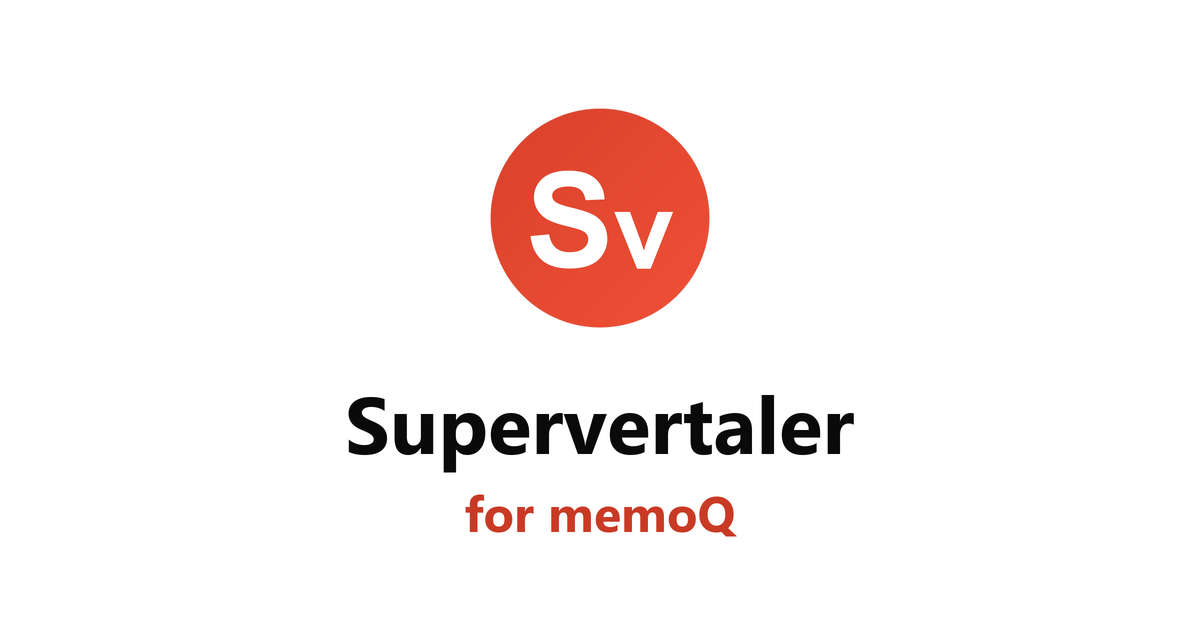
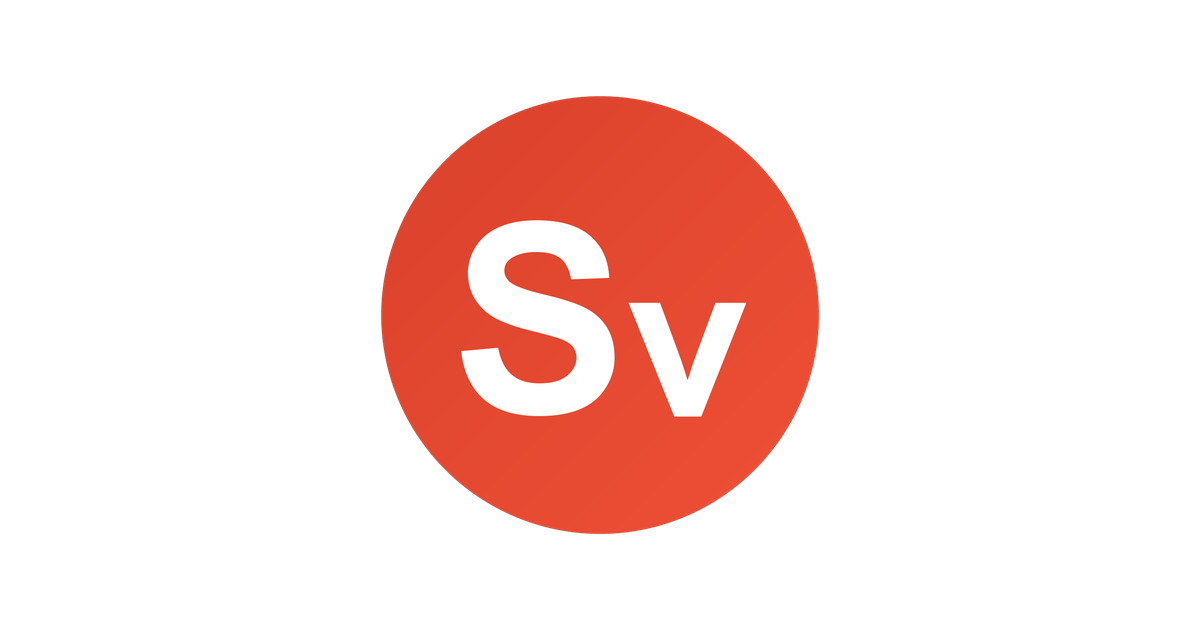
Link previews: the mark alone, so WhatsApp's small preview is sharp
WhatsApp's small link preview is the middle square of the picture,
shrunk to about 115 pixels and saved as a rough JPEG. With the name under
the mark, the mark came out about 45 pixels wide there, and soft. The
three cards are now the mark alone, 437 pixels across, filling that
square: black for the brand, blue for Trados, vermillion for memoQ. The
apps print the page title beside the picture, so the name is still there.

Every page now asks for ?v=2 of its card, so the apps fetch the new
picture rather than reuse the one they have kept.

Changed region(s): [[0.2775, 0.1508, 0.7092, 0.8444]]

diff --git a/sidekick/index.html b/sidekick/index.html
@@ -11,7 +11,7 @@
 <meta property="og:title" content="Supervertaler Sidekick – the free toolbox for translators">
 <meta property="og:description" content="A free Windows toolbox for translators: select text in any program and look it up, translate it with several engines at once, run an AI prompt over it, or paste a snippet in its place. Clipboard history, text expansion and terminology searches included.">
 <meta property="og:url" content="https://supervertaler.com/sidekick/">
-<meta property="og:image" content="https://supervertaler.com/og-image.png?v=1">
+<meta property="og:image" content="https://supervertaler.com/og-image.png?v=2">
 <meta property="og:image:width" content="1200">
 <meta property="og:image:height" content="630">
 <meta property="og:image:alt" content="Supervertaler">

diff --git a/trados/index.html b/trados/index.html
@@ -11,7 +11,7 @@
 <meta property="og:title" content="Supervertaler for Trados – AI translation inside Trados Studio">
 <meta property="og:description" content="A Trados Studio plugin: AI translation, TermLens inline terminology, SuperSearch cross-file search and replace, SuperVoice voice control, and SuperMemory – the client decisions you cannot look up, in every prompt.">
 <meta property="og:url" content="https://supervertaler.com/trados/">
-<meta property="og:image" content="https://supervertaler.com/og-image-trados.png?v=1">
+<meta property="og:image" content="https://supervertaler.com/og-image-trados.png?v=2">
 <meta property="og:image:width" content="1200">
 <meta property="og:image:height" content="630">
 <meta property="og:image:alt" content="Supervertaler for Trados">

diff --git a/memoq/index.html b/memoq/index.html
@@ -11,7 +11,7 @@
 <meta property="og:title" content="Supervertaler for memoQ – AI translation inside memoQ">
 <meta property="og:description" content="A memoQ plugin: AI translation that learns from the segments you confirm, your glossary in memoQ's terminology pane and in the prompt, and context no CAT tool normally shows the AI – list numbering and what the figures show.">
 <meta property="og:url" content="https://supervertaler.com/memoq/">
-<meta property="og:image" content="https://supervertaler.com/og-image-memoq.png?v=1">
+<meta property="og:image" content="https://supervertaler.com/og-image-memoq.png?v=2">
 <meta property="og:image:width" content="1200">
 <meta property="og:image:height" content="630">
 <meta property="og:image:alt" content="Supervertaler for memoQ">

diff --git a/index.html b/index.html
@@ -11,7 +11,7 @@
 <meta property="og:title" content="Supervertaler – AI translation inside Trados Studio and memoQ">
 <meta property="og:description" content="AI translation that knows more than the sentence in front of it – your confirmed segments, your terminology, your notes on the client. One licence covers the Trados Studio plugin and the memoQ plugin.">
 <meta property="og:url" content="https://supervertaler.com/">
-<meta property="og:image" content="https://supervertaler.com/og-image.png?v=1">
+<meta property="og:image" content="https://supervertaler.com/og-image.png?v=2">
 <meta property="og:image:width" content="1200">
 <meta property="og:image:height" content="630">
 <meta property="og:image:alt" content="Supervertaler">

diff --git a/articles/local-ai-patent-test/index.html b/articles/local-ai-patent-test/index.html
@@ -11,7 +11,7 @@
 <meta property="og:title" content="Can a local AI model translate a patent?">
 <meta property="og:description" content="A published Dutch patent translated with Gemma 4 31B, a model you can run on your own computer, and with Claude Opus 5.5, compared paragraph by paragraph with the official English publication.">
 <meta property="og:url" content="https://supervertaler.com/articles/local-ai-patent-test/">
-<meta property="og:image" content="https://supervertaler.com/og-image.png?v=1">
+<meta property="og:image" content="https://supervertaler.com/og-image.png?v=2">
 <meta property="og:image:width" content="1200">
 <meta property="og:image:height" content="630">
 <meta property="og:image:alt" content="Supervertaler">

diff --git a/pricing/index.html b/pricing/index.html
@@ -11,7 +11,7 @@
 <meta property="og:title" content="Pricing – one Supervertaler licence for Trados and memoQ">
 <meta property="og:description" content="One Supervertaler licence covers Supervertaler for Trados and Supervertaler for memoQ: €20 a month or €200 a year, on up to two computers, with a 14-day free trial and no credit card.">
 <meta property="og:url" content="https://supervertaler.com/pricing/">
-<meta property="og:image" content="https://supervertaler.com/og-image.png?v=1">
+<meta property="og:image" content="https://supervertaler.com/og-image.png?v=2">
 <meta property="og:image:width" content="1200">
 <meta property="og:image:height" content="630">
 <meta property="og:image:alt" content="Supervertaler">

diff --git a/terms/index.html b/terms/index.html
@@ -11,7 +11,7 @@
 <meta property="og:title" content="Terms of Use – Supervertaler">
 <meta property="og:description" content="The terms for using Supervertaler for Trados, Supervertaler for memoQ, Supervertaler Workbench and Supervertaler Sidekick: the trial, your licence, subscriptions, AI features and what you are responsible for.">
 <meta property="og:url" content="https://supervertaler.com/terms/">
-<meta property="og:image" content="https://supervertaler.com/og-image.png?v=1">
+<meta property="og:image" content="https://supervertaler.com/og-image.png?v=2">
 <meta property="og:image:width" content="1200">
 <meta property="og:image:height" content="630">
 <meta property="og:image:alt" content="Supervertaler">

diff --git a/workbench/index.html b/workbench/index.html
@@ -15,7 +15,7 @@
     <meta property="og:title" content="Supervertaler Workbench">
     <meta property="og:description" content="Supervertaler Workbench - a free, open-source standalone CAT tool with AI translation, translation memory, terminology and QA. In active development.">
     <meta property="og:url" content="https://supervertaler.com/workbench/">
-    <meta property="og:image" content="https://supervertaler.com/og-image.png?v=1">
+    <meta property="og:image" content="https://supervertaler.com/og-image.png?v=2">
     <meta property="og:image:width" content="1200">
     <meta property="og:image:height" content="630">
     <meta property="og:image:alt" content="Supervertaler">

diff --git a/privacy/index.html b/privacy/index.html
@@ -15,7 +15,7 @@
     <meta property="og:title" content="Privacy Policy - Supervertaler">
     <meta property="og:description" content="Supervertaler Privacy Policy - How we handle your data, what stays on your machine, and what is sent to third-party AI providers.">
     <meta property="og:url" content="https://supervertaler.com/privacy/">
-    <meta property="og:image" content="https://supervertaler.com/og-image.png?v=1">
+    <meta property="og:image" content="https://supervertaler.com/og-image.png?v=2">
     <meta property="og:image:width" content="1200">
     <meta property="og:image:height" content="630">
     <meta property="og:image:alt" content="Supervertaler">

diff --git a/appstore/index.html b/appstore/index.html
@@ -9,7 +9,7 @@
 <meta property="og:title" content="Supervertaler for Trados on the RWS AppStore">
 <meta property="og:description" content="Supervertaler for Trados on the RWS AppStore, where the plugin is published: AI translation inside Trados Studio.">
 <meta property="og:url" content="https://supervertaler.com/appstore/">
-<meta property="og:image" content="https://supervertaler.com/og-image-trados.png?v=1">
+<meta property="og:image" content="https://supervertaler.com/og-image-trados.png?v=2">
 <meta property="og:image:width" content="1200">
 <meta property="og:image:height" content="630">
 <meta property="og:image:alt" content="Supervertaler for Trados">

diff --git a/docs/index.html b/docs/index.html
@@ -11,7 +11,7 @@
 <meta property="og:title" content="Docs and resources – Supervertaler">
 <meta property="og:description" content="Documentation for Supervertaler for Trados, Supervertaler for memoQ and Sidekick, plus a case study, screencasts, changelogs and the source code.">
 <meta property="og:url" content="https://supervertaler.com/docs/">
-<meta property="og:image" content="https://supervertaler.com/og-image.png?v=1">
+<meta property="og:image" content="https://supervertaler.com/og-image.png?v=2">
 <meta property="og:image:width" content="1200">
 <meta property="og:image:height" content="630">
 <meta property="og:image:alt" content="Supervertaler">

diff --git a/changelog/trados/index.html b/changelog/trados/index.html
@@ -11,7 +11,7 @@
 <meta property="og:title" content="What's new in Supervertaler for Trados – changelog">
 <meta property="og:description" content="Every release of Supervertaler for Trados, newest first: what was added, changed and fixed.">
 <meta property="og:url" content="https://supervertaler.com/changelog/trados/">
-<meta property="og:image" content="https://supervertaler.com/og-image-trados.png?v=1">
+<meta property="og:image" content="https://supervertaler.com/og-image-trados.png?v=2">
 <meta property="og:image:width" content="1200">
 <meta property="og:image:height" content="630">
 <meta property="og:image:alt" content="Supervertaler for Trados">
